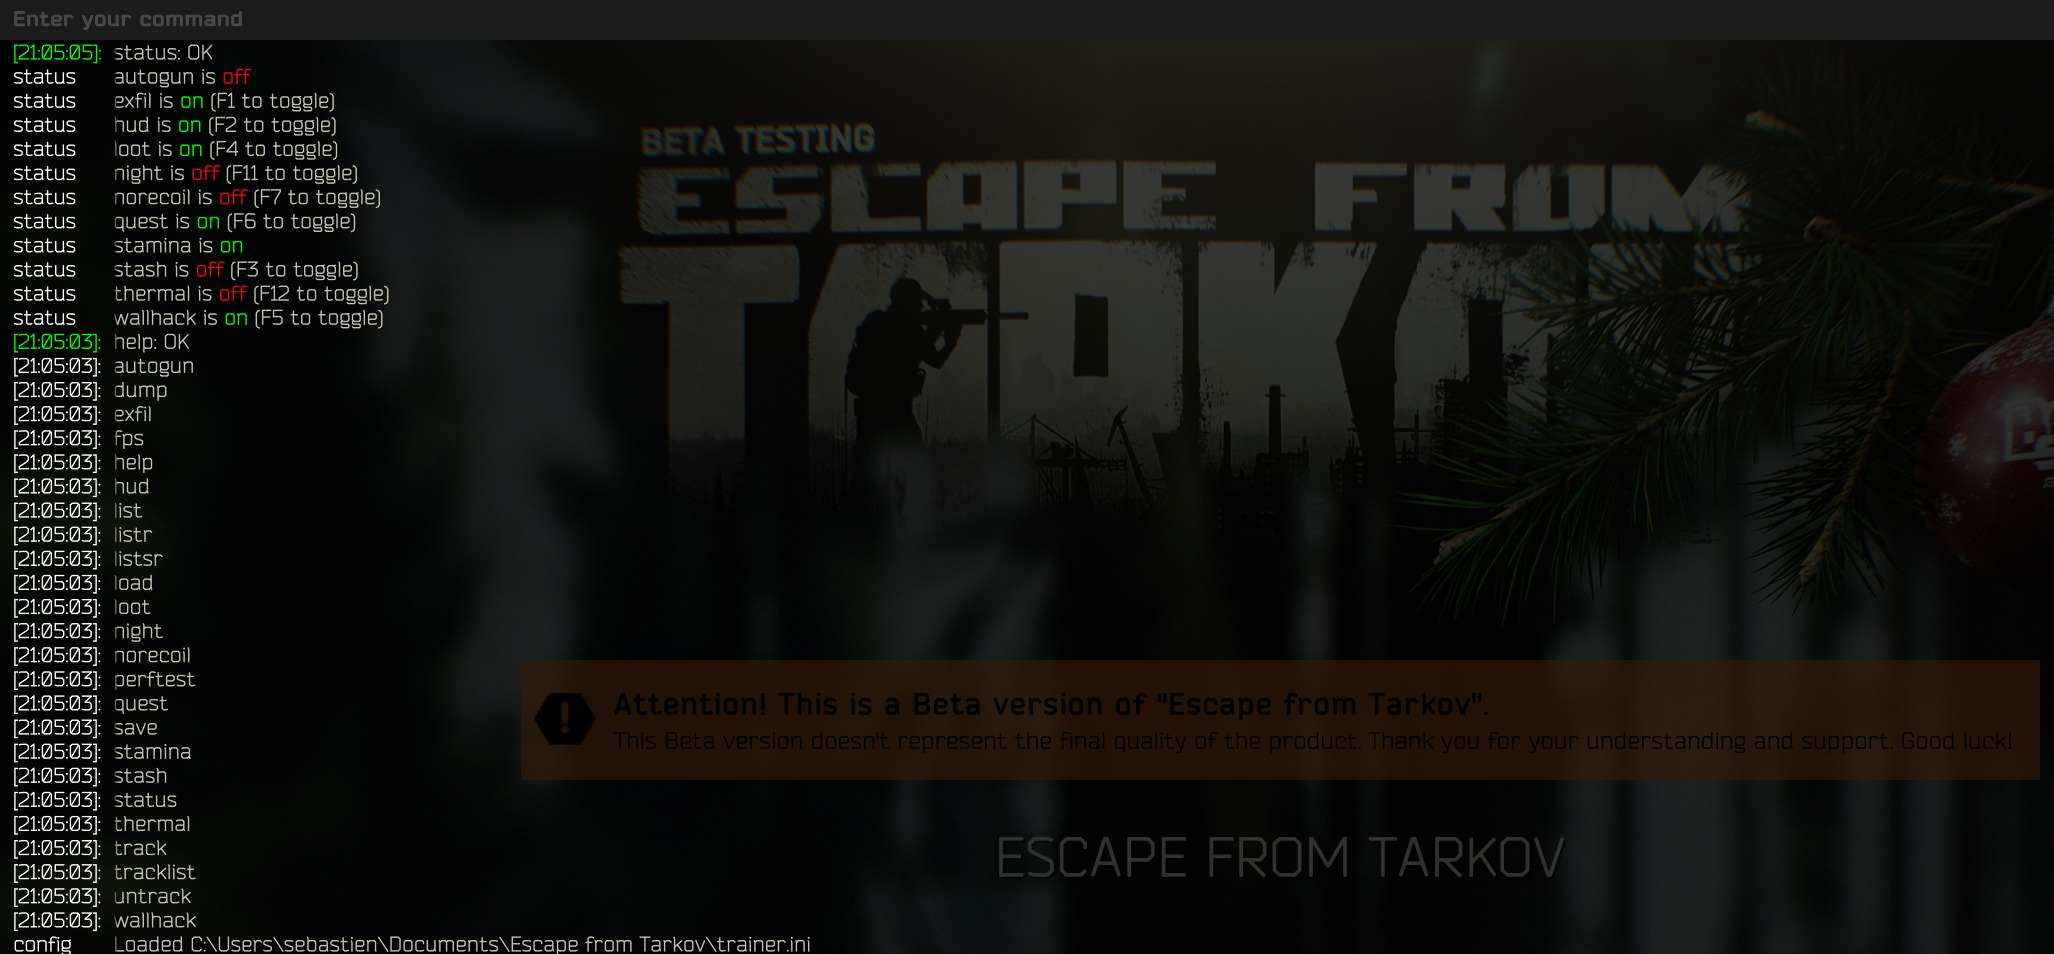
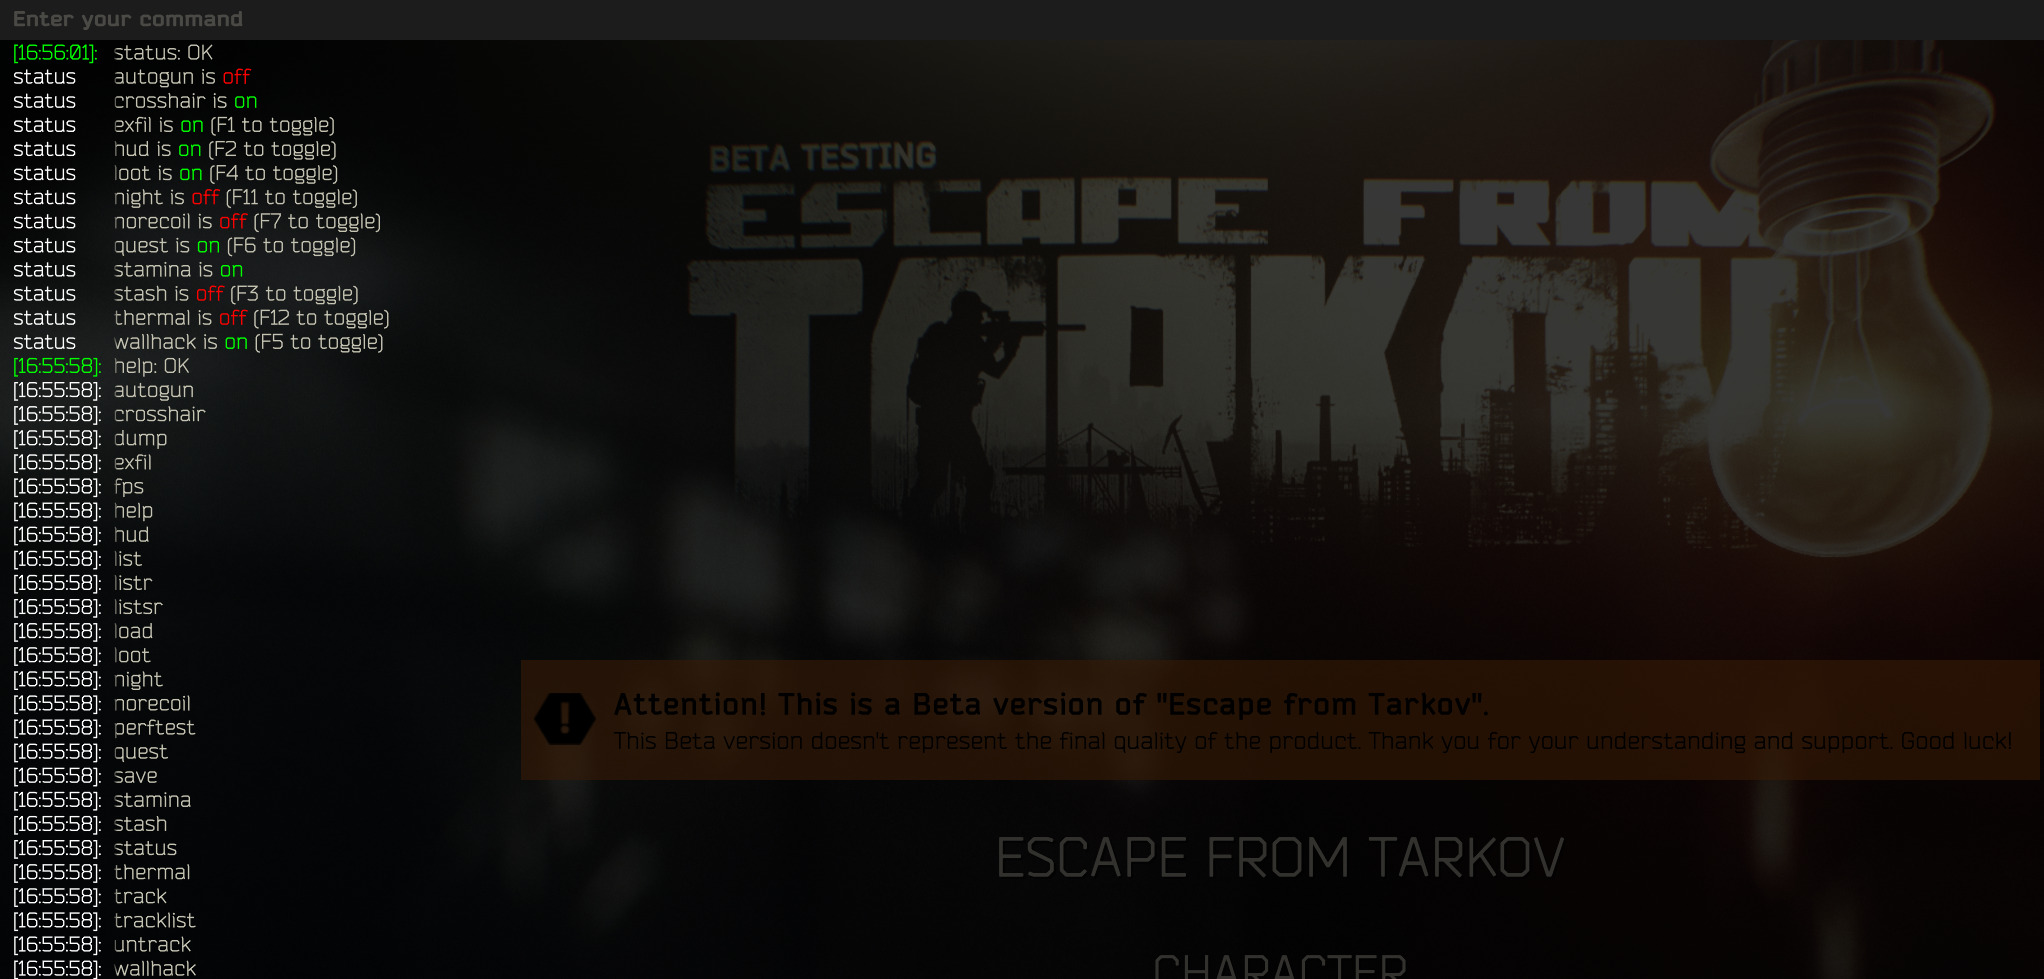
Add crosshair

diff --git a/UI/Render.cs b/UI/Render.cs
@@ -5,6 +5,8 @@ namespace EFT.Trainer.UI
     public static class Render
     {
         public static GUIStyle StringStyle { get; set; } = new(GUI.skin.label);
+        public static readonly Rect LineRect = new(0f, 0f, 1f, 1f);
+        public static readonly Texture2D Texture = new(2, 2, TextureFormat.ARGB32, false);
 
         public static Color Color
         {
@@ -25,5 +27,32 @@ namespace EFT.Trainer.UI
             var upperLeft = centered ? position - size / 2f : position;
             GUI.Label(new Rect(upperLeft, size), content);
         }
-    }
+
+        public static void DrawLine(Vector2 pointA, Vector2 pointB, Color color, float width)
+        {
+	        var diffx = pointB.x - pointA.x;
+	        var diffy = pointB.y - pointA.y;
+	        var sqrt = Mathf.Sqrt(diffx * diffx + diffy * diffy);
+
+	        if (!(sqrt >= 0.001f))
+		        return;
+	        
+	        var sqdy = width * diffy / sqrt;
+	        var sqdx = width * diffx / sqrt;
+	        
+	        var identity = Matrix4x4.identity;
+	        identity.m00 = diffx;
+	        identity.m01 = -sqdy;
+	        identity.m03 = pointA.x + 0.5f * sqdy;
+	        identity.m10 = diffy;
+	        identity.m11 = sqdx;
+	        identity.m13 = pointA.y - 0.5f * sqdx;
+
+	        GL.PushMatrix();
+	        GL.MultMatrix(identity);
+	        GUI.color = color;
+	        GUI.DrawTexture(LineRect, Texture);
+	        GL.PopMatrix();
+        }
+	}
 }

diff --git a/Features/CrossHair.cs b/Features/CrossHair.cs
@@ -1,0 +1,43 @@
+using EFT.Trainer.Configuration;
+using EFT.Trainer.Extensions;
+using EFT.Trainer.UI;
+using UnityEngine;
+
+namespace EFT.Trainer.Features
+{
+	public class CrossHair : ToggleMonoBehaviour
+	{
+		public override bool Enabled { get; set; } = false;
+
+		[ConfigurationProperty]
+		public Color Color { get; set; } = Color.red;
+
+		[ConfigurationProperty]
+		public bool HideWhenAiming { get; set; } = true;
+
+		[ConfigurationProperty]
+		public float Size { get; set; } = 10f;
+
+		[ConfigurationProperty]
+		public float Thickness { get; set; } = 1.5f;
+
+		protected override void OnGUIWhenEnabled()
+		{
+			var player = GameState.Current?.LocalPlayer;
+			if (!player.IsValid())
+				return;
+
+			if (player!.HandsController == null)
+				return;
+
+			if (player.HandsController.IsAiming && HideWhenAiming)
+				return;
+
+			var centerx = Screen.width / 2;
+			var centery = Screen.height / 2;
+
+			Render.DrawLine(new Vector2(centerx, centery - Size), new Vector2(centerx, centery + Size), Color, Thickness);
+			Render.DrawLine(new Vector2(centerx - Size, centery), new Vector2(centerx + Size, centery), Color, Thickness);
+		}
+	}
+}

diff --git a/Loader.cs b/Loader.cs
@@ -33,6 +33,7 @@ namespace EFT.Trainer
 			HookObject.AddComponent<Features.Stamina>();
 			HookObject.AddComponent<Features.NightVision>();
 			HookObject.AddComponent<Features.ThermalVision>();
+			HookObject.AddComponent<Features.CrossHair>();
 			HookObject.AddComponent<Features.Commands>();
 		}
 	}

diff --git a/Features/Commands.cs b/Features/Commands.cs
@@ -32,6 +32,7 @@ namespace EFT.Trainer.Features
 			{"loot", typeof(LootItems)},
 			{"hud", typeof(Hud)},
 			{"exfil", typeof(ExfiltrationPoints)},
+			{"crosshair", typeof(CrossHair)},
 			{"autogun", typeof(AutomaticGun)},
 		};
 
